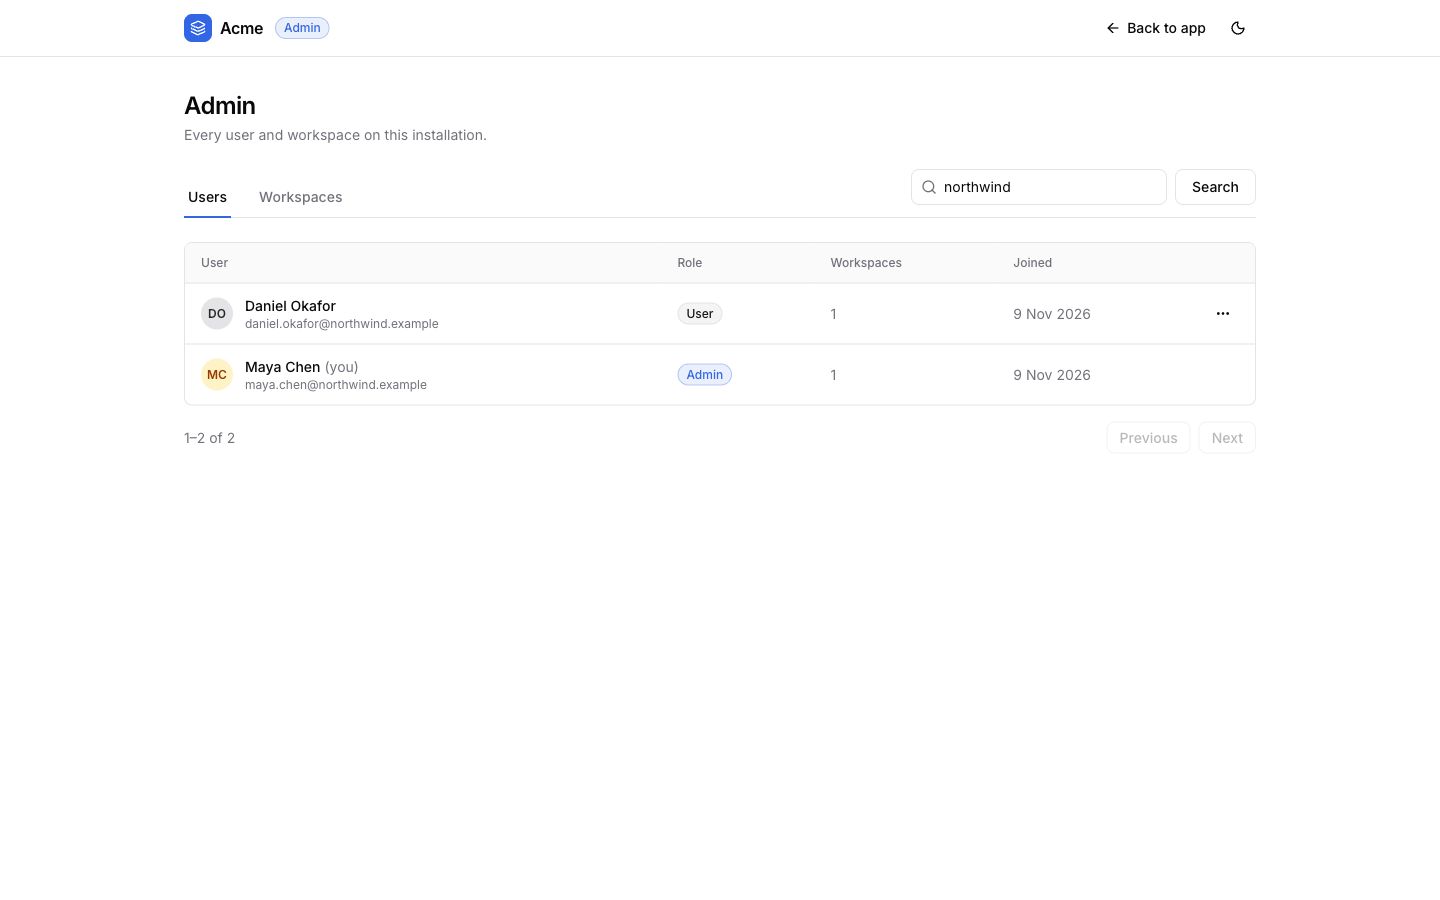
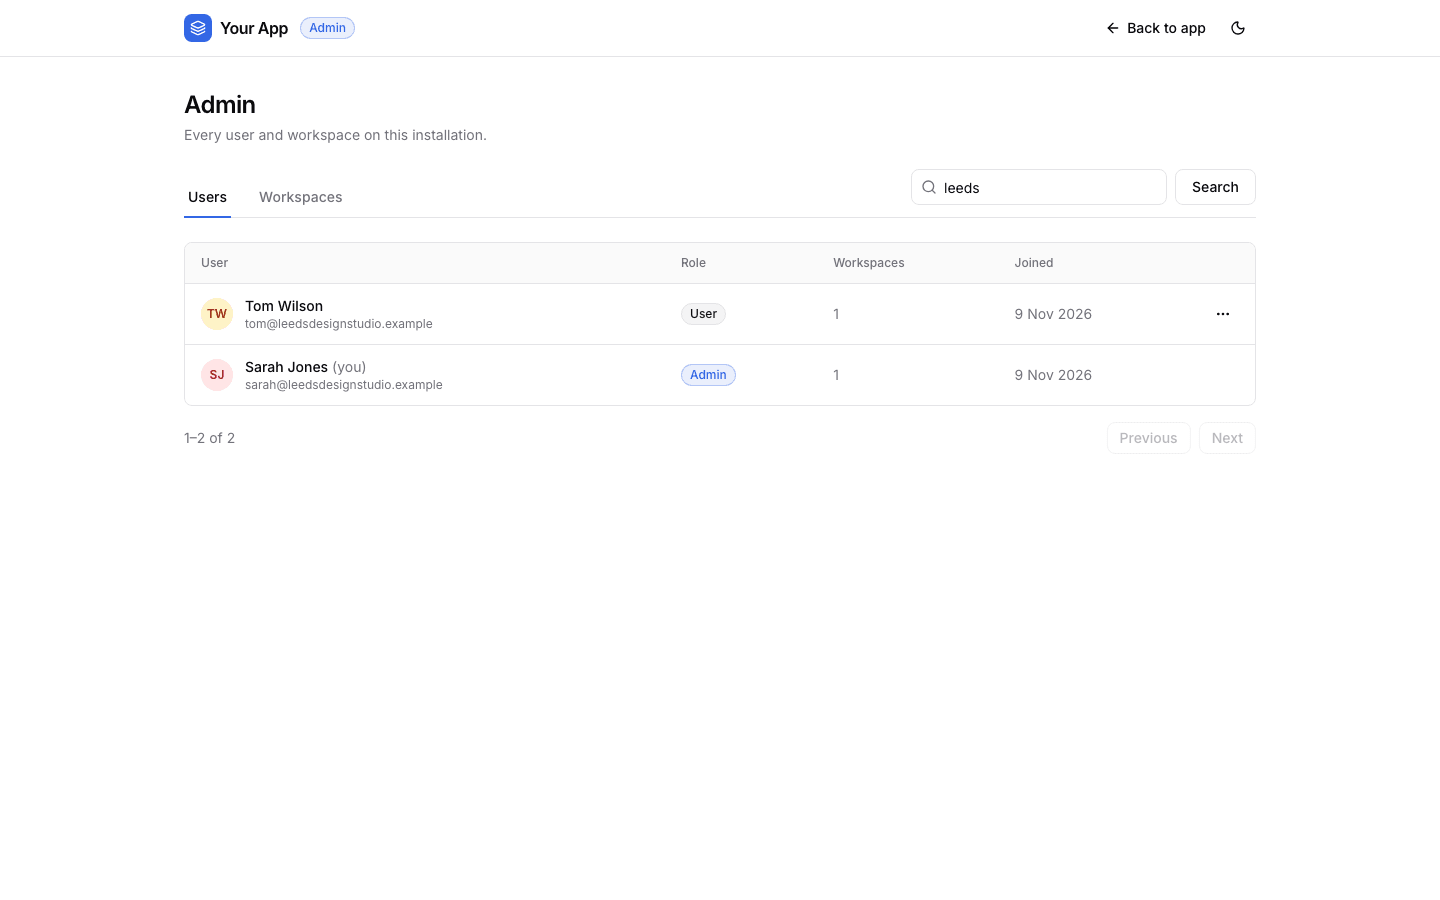
Next.js SaaS starter in TypeScript: generic Your App branding and Leeds Design Studio demo
The default product name is now Your App, set with the APP_NAME variable, and the landing page, dashboard mock, placeholders, emails and README no longer use placeholder brands. The demo workspace is Leeds Design Studio with Sarah Jones, Tom Wilson and Priya Patel, and every README screenshot is retaken from the running app.

diff --git a/src/components/dashboard-mock.tsx b/src/components/dashboard-mock.tsx
@@ -35,7 +35,7 @@ export function DashboardMock({ appName }: { appName: string }) {
             <span className="size-5 rounded-md bg-primary" /> {appName}
           </div>
           <div className="rounded-md border bg-background p-2">
-            <p className="font-medium">Acme Inc</p>
+            <p className="font-medium">Leeds Design Studio</p>
             <p className="text-[10px] text-muted-foreground">Pro plan</p>
           </div>
           <div className="space-y-0.5">
@@ -44,17 +44,17 @@ export function DashboardMock({ appName }: { appName: string }) {
             <p className="flex items-center gap-2 px-2 py-1.5 text-muted-foreground"><Settings className="size-3.5" /> Settings</p>
           </div>
           <div className="mt-auto flex items-center gap-2 border-t pt-3">
-            <span className="flex size-6 items-center justify-center rounded-full bg-indigo-100 text-[10px] font-semibold text-indigo-800 dark:bg-indigo-950 dark:text-indigo-200">AL</span>
+            <span className="flex size-6 items-center justify-center rounded-full bg-indigo-100 text-[10px] font-semibold text-indigo-800 dark:bg-indigo-950 dark:text-indigo-200">SJ</span>
             <span className="min-w-0">
-              <span className="block truncate font-medium">Ada Lovelace</span>
-              <span className="block truncate text-[10px] text-muted-foreground">ada@example.com</span>
+              <span className="block truncate font-medium">Sarah Jones</span>
+              <span className="block truncate text-[10px] text-muted-foreground">sarah@leedsdesignstudio.example</span>
             </span>
           </div>
         </div>
         <div className="min-w-0 flex-1 space-y-3 p-3 sm:space-y-4 sm:p-5">
           <div>
-            <p className="text-sm font-semibold sm:text-base">Welcome back, Ada</p>
-            <p className="text-muted-foreground">Here is what is happening in Acme Inc.</p>
+            <p className="text-sm font-semibold sm:text-base">Welcome back, Sarah</p>
+            <p className="text-muted-foreground">Here is what is happening in Leeds Design Studio.</p>
           </div>
           <div className="grid grid-cols-2 gap-2 lg:grid-cols-4">
             {stats.map(({ label, value, bar, icon: Icon }) => (

diff --git a/src/app/onboarding/page.tsx b/src/app/onboarding/page.tsx
@@ -77,7 +77,7 @@ export default async function OnboardingPage({ searchParams }: PageProps<"/onboa
               <Heading title="Name your workspace" text="A workspace holds your team, projects and billing. You can rename it later." />
               <ActionForm action={createWorkspaceAction}>
                 <input type="hidden" name="next" value={user.onboardingCompleted ? "/dashboard" : href("invite")} />
-                <Field label="Workspace name" name="name" placeholder="e.g. Acme Inc" maxLength={limits.workspaceName} required autoFocus />
+                <Field label="Workspace name" name="name" placeholder="e.g. Leeds Design Studio" maxLength={limits.workspaceName} required autoFocus />
                 <div className="flex justify-end">
                   <SubmitButton>Continue</SubmitButton>
                 </div>

diff --git a/src/lib/config.ts b/src/lib/config.ts
@@ -8,7 +8,7 @@ const stripePricePro = env("STRIPE_PRICE_PRO");
 const stripePriceBusiness = env("STRIPE_PRICE_BUSINESS");
 
 export const config = {
-  appName: env("APP_NAME") ?? "Acme",
+  appName: env("APP_NAME") ?? "Your App",
   appUrl: env("APP_URL")?.replace(/\/+$/, ""),
   adminEmails: (env("ADMIN_EMAILS") ?? "")
     .split(",")
@@ -16,7 +16,7 @@ export const config = {
     .filter(Boolean),
   email: {
     resendApiKey: env("RESEND_API_KEY"),
-    from: env("EMAIL_FROM") ?? "Acme <onboarding@resend.dev>",
+    from: env("EMAIL_FROM") ?? "Your App <onboarding@resend.dev>",
   },
   github: oauth("GITHUB"),
   google: oauth("GOOGLE"),

diff --git a/src/app/(app)/workspaces/new/page.tsx b/src/app/(app)/workspaces/new/page.tsx
@@ -15,7 +15,7 @@ export default function NewWorkspacePage() {
         <CardContent>
           <ActionForm action={createWorkspaceAction}>
             <input type="hidden" name="next" value="/dashboard" />
-            <Field label="Workspace name" name="name" placeholder="e.g. Acme Inc" required maxLength={limits.workspaceName} autoFocus />
+            <Field label="Workspace name" name="name" placeholder="e.g. Leeds Design Studio" required maxLength={limits.workspaceName} autoFocus />
             <SubmitButton>Create workspace</SubmitButton>
           </ActionForm>
         </CardContent>

diff --git a/src/lib/format.ts b/src/lib/format.ts
@@ -27,7 +27,7 @@ export const formatRole = (role: string | null | undefined) =>
     .map((r) => r.trim().replace(/^./, (c) => c.toUpperCase()))
     .join(", ");
 
-/** "Ada Lovelace" -> "AL", "ada" -> "A"; first letters of the first and last word. */
+/** "Sarah Jones" -> "SJ", "sarah" -> "S"; first letters of the first and last word. */
 export function initials(name: string) {
   const words = name.trim().split(/\s+/).filter(Boolean);
   if (words.length === 0) return "?";

diff --git a/README.md b/README.md
@@ -155,10 +155,10 @@ curl -X POST http://localhost:3000/api/v1/projects \
 | `AUTH_SECRET` | Yes | none | Signs sessions and email tokens. Generated by Light Cloud at deploy. |
 | `PORT` | No | `3000` | Port to listen on. Set by Light Cloud. |
 | `APP_URL` | No | from each request | Public URL. Set it when you add a custom domain. |
-| `APP_NAME` | No | `Acme` | Product name in the header, titles and emails. |
+| `APP_NAME` | No | `Your App` | Product name in the header, titles and emails. |
 | `ADMIN_EMAILS` | No | empty | Comma-separated emails that are admins, on top of the first user. |
 | `RESEND_API_KEY` | No | empty | Sends email through Resend and turns on email verification. |
-| `EMAIL_FROM` | No | `Acme <onboarding@resend.dev>` | Sender, on a domain verified in Resend. |
+| `EMAIL_FROM` | No | `Your App <onboarding@resend.dev>` | Sender, on a domain verified in Resend. |
 | `GITHUB_CLIENT_ID`, `GITHUB_CLIENT_SECRET` | No | empty | Turn on GitHub sign-in (both needed). |
 | `GOOGLE_CLIENT_ID`, `GOOGLE_CLIENT_SECRET` | No | empty | Turn on Google sign-in (both needed). |
 | `STRIPE_SECRET_KEY`, `STRIPE_WEBHOOK_SECRET`, `STRIPE_PRICE_PRO`, `STRIPE_PRICE_BUSINESS` | No | empty | Turn on billing (all four needed): API key, webhook signing secret, monthly price ids. |
